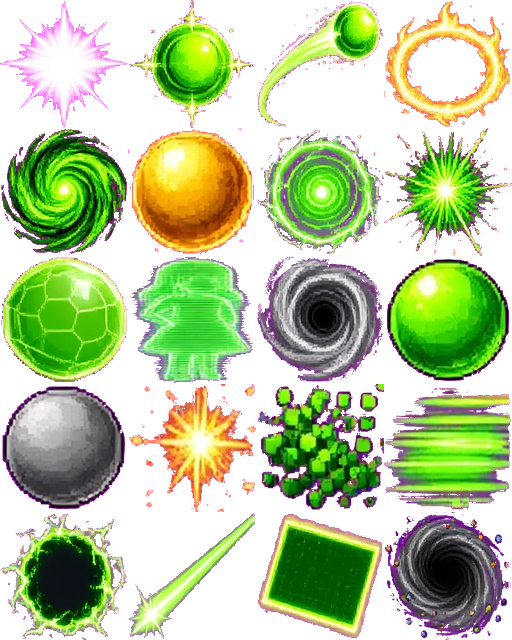
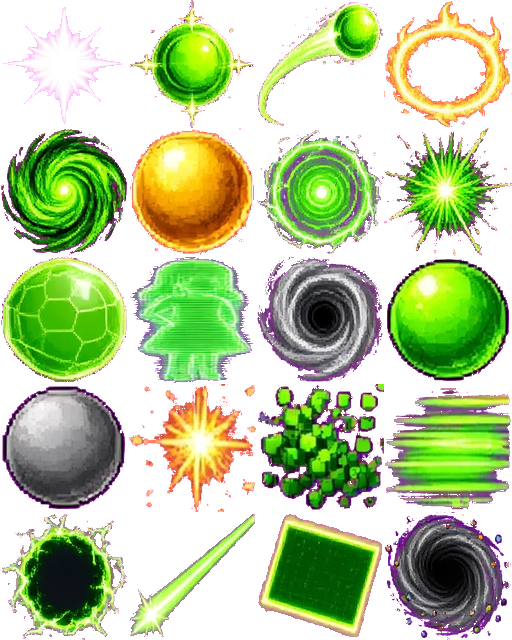
Jess: limpa magenta residual, retratos/face regenerados e Daltonic Mode completo (gas rosa, tela cinza/turva, lentidao constante e controles invertidos)
- assets/sprites/jess.png + assets/abilities/jess.png: zero pixels magenta residual (chroma-key) — validate_sprites confirma 0 magenta na Jess
- assets/ui/roster-portraits.png regenerado via tools/build_roster_portraits.py (celula da Jess limpa, sem fragmento a direita) + novos assets/ui/face-jess.png e portrait-jess.png (HUD/cutin estavam 404)
- Ultimate Daltonic Mode (js/engine/fighter.js, game.js, css): alem do cinza, aplica slow constante (0.55x) no rival, gas rosa tipo neblina cobrindo a tela do jogador atingido (overlay + sparks #ff7ad9), tela turva (blur via classe .daltonic no canvas) e inverte botoes de movimento (esq/dir, cima/baixo) e de poder (a0<->a9 ... a4<->a5) via daltonicInput
- STATUS_LABEL.daltonic + desc da ult atualizada; cache-busters bumpados (v42-jessgas, v38-jessgas, spritefix-4x15c)
- tools/jess_daltonic_test.cjs: 17 checks do novo comportamento; jess_test 28/28, jess_intensive 18/18, combat_regressions PASS

Changed region(s): [[0.0, 0.0, 0.25, 0.1875]]

diff --git a/index.html b/index.html
@@ -22,9 +22,9 @@
     })().catch((error) => console.warn('Cache cleanup failed:', error));
   </script>
   <link rel="icon" type="image/png" href="assets/share/favicon.png" />
-  <link rel="stylesheet" href="css/style.css?v=v41-jessfix" />
-  <link rel="stylesheet" href="css/account.css?v=v41-jessfix" />
-  <link rel="stylesheet" href="css/mobile.css?v=v41-jessfix" />
+  <link rel="stylesheet" href="css/style.css?v=v42-jessgas" />
+  <link rel="stylesheet" href="css/account.css?v=v42-jessgas" />
+  <link rel="stylesheet" href="css/mobile.css?v=v42-jessgas" />
 </head>
 <body>
   <div id="loader" role="status" aria-live="polite">
@@ -75,13 +75,13 @@
 
     <section class="screen" id="scr-menu" data-screen="menu">
       <div class="menu-bg"></div>
-      <img class="menu-skin" id="skin-natal" alt="" src="assets/ui/skin-natal.png?v=v41-jessfix" />
-      <img class="menu-skin" id="skin-halloween" alt="" src="assets/ui/skin-halloween.png?v=v41-jessfix" />
-      <img class="menu-skin" id="skin-carnaval" alt="" src="assets/ui/skin-carnaval.png?v=v41-jessfix" />
-      <img class="menu-skin" id="skin-pascoa" alt="" src="assets/ui/skin-pascoa.png?v=v41-jessfix" />
-      <img class="menu-skin" id="skin-junina" alt="" src="assets/ui/skin-junina.png?v=v41-jessfix" />
-      <img class="menu-skin" id="skin-criancas" alt="" src="assets/ui/skin-criancas.png?v=v41-jessfix" />
-      <img class="menu-skin" id="skin-anonovo" alt="" src="assets/ui/skin-anonovo.png?v=v41-jessfix" />
+      <img class="menu-skin" id="skin-natal" alt="" src="assets/ui/skin-natal.png?v=v42-jessgas" />
+      <img class="menu-skin" id="skin-halloween" alt="" src="assets/ui/skin-halloween.png?v=v42-jessgas" />
+      <img class="menu-skin" id="skin-carnaval" alt="" src="assets/ui/skin-carnaval.png?v=v42-jessgas" />
+      <img class="menu-skin" id="skin-pascoa" alt="" src="assets/ui/skin-pascoa.png?v=v42-jessgas" />
+      <img class="menu-skin" id="skin-junina" alt="" src="assets/ui/skin-junina.png?v=v42-jessgas" />
+      <img class="menu-skin" id="skin-criancas" alt="" src="assets/ui/skin-criancas.png?v=v42-jessgas" />
+      <img class="menu-skin" id="skin-anonovo" alt="" src="assets/ui/skin-anonovo.png?v=v42-jessgas" />
       <div class="menu-fx" id="fx-natal"></div>
       <div class="menu-fx" id="fx-halloween"></div>
       <img class="logo small" src="assets/ui/logo.png" alt="DS Fighters" />
@@ -411,7 +411,7 @@
     </div>
   </div>
 
-  <script src="assets/sprites/layout.js?v=v41-jessfix"></script>
+  <script src="assets/sprites/layout.js?v=v42-jessgas"></script>
   <script>
     /* Blindagem contra layout.js velho em cache: os arquivos de dados
        (fighters-v7..v11) escrevem em SPRITE_LAYOUT.files / .perFighter,
@@ -435,76 +435,76 @@
       }
     })();
   </script>
-  <script src="assets/stages/sheets.js?v=v41-jessfix"></script>
-  <script src="assets/maps/anim.js?v=v41-jessfix"></script>
-  <script src="js/data/achievements.js?v=v41-jessfix"></script>
-  <script src="js/core/profile.js?v=v41-jessfix"></script>
-  <script src="js/config/firebase-config.js?v=v41-jessfix"></script>
-  <script src="js/core/cloud.js?v=v41-jessfix"></script>
-  <script src="js/config/supabase-config.js?v=v41-jessfix"></script>
+  <script src="assets/stages/sheets.js?v=v42-jessgas"></script>
+  <script src="assets/maps/anim.js?v=v42-jessgas"></script>
+  <script src="js/data/achievements.js?v=v42-jessgas"></script>
+  <script src="js/core/profile.js?v=v42-jessgas"></script>
+  <script src="js/config/firebase-config.js?v=v42-jessgas"></script>
+  <script src="js/core/cloud.js?v=v42-jessgas"></script>
+  <script src="js/config/supabase-config.js?v=v42-jessgas"></script>
   <script src="js/vendor/supabase-2.118.0.js"></script>
-  <script src="js/core/supabase-cloud.js?v=v41-jessfix"></script>
-  <script src="js/data/fighters.js?v=v41-jessfix"></script>
-  <script src="js/data/fighters-v10.js?v=v41-jessfix"></script>
-  <script src="js/data/fighters-v11.js?v=v41-jessfix"></script>
-  <script src="js/data/powers.js?v=v41-jessfix"></script>
-  <script src="js/data/powers-turbo.js?v=v41-jessfix"></script>
-  <script src="js/data/powers-v4.js?v=v41-jessfix"></script>
-  <script src="js/data/powers-v5.js?v=v41-jessfix"></script>
-  <script src="js/data/powers-v6.js?v=v41-jessfix"></script>
-  <script src="js/data/powers-balance-v6.js?v=v41-jessfix"></script>
-  <script src="js/data/powers-v7.js?v=v41-jessfix"></script>
-  <script src="js/data/powers-v8.js?v=v41-jessfix"></script>
-  <script src="js/data/powers-v9.js?v=v41-jessfix"></script>
-  <script src="js/data/powers-v10.js?v=v41-jessfix"></script>
-  <script src="js/data/powers-v11.js?v=v41-jessfix"></script>
-    <script src="js/data/fighters-v12.js?v=v41-jessfix"></script>
-    <script src="js/data/fighters-v13.js?v=v41-jessfix"></script>
-    <script src="js/data/fighters-v14.js?v=v41-jessfix"></script>
-    <script src="js/data/fighters-v15.js?v=v41-jessfix"></script>
-    <script src="js/data/fighters-v16.js?v=v41-jessfix"></script>
-    <script src="js/data/fighters-v17.js?v=v41-jessfix"></script>
-  <script src="js/data/fighters-v18.js?v=v41-jessfix"></script>
-  <script src="js/data/fighters-v19.js?v=v41-jessfix"></script>
-  <script src="js/data/fighters-v20.js?v=v41-jessfix"></script>
-  <script src="js/data/powers-balance-v7.js?v=v41-jessfix"></script>
-  <script src="js/data/powers-balance-v8.js?v=v41-jessfix"></script>
-  <script src="js/data/powers-balance-v9.js?v=v41-jessfix"></script>
-  <script src="js/data/powers-balance-v10.js?v=v41-jessfix"></script>
-  <script src="js/data/powers-balance-v11.js?v=v41-jessfix"></script>
-  <script src="js/data/powers-balance-v12.js?v=v41-jessfix"></script>
-  <script src="js/data/powers-balance-v13.js?v=v41-jessfix"></script>
-  <script src="js/data/fighters-pack.js?v=v41-jessfix"></script>
-  <script src="js/data/fighters-henrico.js?v=v41-jessfix"></script>
-  <script src="js/data/fighters-jess.js?v=v41-jessfix"></script>
-  <script src="js/data/pets.js?v=v41-jessfix"></script>
-  <script src="js/data/stages.js?v=v41-jessfix"></script>
-  <script src="js/data/stages-v21.js?v=v41-jessfix"></script>
-  <script src="js/data/events.js?v=v41-jessfix"></script>
-  <script src="js/data/stages-events.js?v=v41-jessfix"></script>
-  <script src="js/data/stages-brasil.js?v=v41-jessfix"></script>
-  <script src="js/engine/sprites.js?v=v41-jessfix"></script>
-  <script src="js/engine/fx.js?v=v41-jessfix"></script>
-  <script src="js/data/voice-book.js?v=v41-jessfix"></script>
-  <script src="js/engine/audio.js?v=v41-jessfix"></script>
-  <script src="js/engine/input.js?v=v41-jessfix"></script>
-  <script src="js/ui/viewport.js?v=v41-jessfix"></script>
-  <script src="js/engine/projectile.js?v=v41-jessfix"></script>
-  <script src="js/engine/fighter.js?v=v41-jessfix"></script>
-  <script src="js/engine/vfx.js?v=v41-jessfix"></script>
-  <script src="js/engine/weather.js?v=v41-jessfix"></script>
-  <script src="js/engine/mechanics.js?v=v41-jessfix"></script>
-  <script src="js/engine/stage.js?v=v41-jessfix"></script>
-  <script src="js/engine/ai.js?v=v41-jessfix"></script>
-  <script src="js/engine/game.js?v=v41-jessfix"></script>
+  <script src="js/core/supabase-cloud.js?v=v42-jessgas"></script>
+  <script src="js/data/fighters.js?v=v42-jessgas"></script>
+  <script src="js/data/fighters-v10.js?v=v42-jessgas"></script>
+  <script src="js/data/fighters-v11.js?v=v42-jessgas"></script>
+  <script src="js/data/powers.js?v=v42-jessgas"></script>
+  <script src="js/data/powers-turbo.js?v=v42-jessgas"></script>
+  <script src="js/data/powers-v4.js?v=v42-jessgas"></script>
+  <script src="js/data/powers-v5.js?v=v42-jessgas"></script>
+  <script src="js/data/powers-v6.js?v=v42-jessgas"></script>
+  <script src="js/data/powers-balance-v6.js?v=v42-jessgas"></script>
+  <script src="js/data/powers-v7.js?v=v42-jessgas"></script>
+  <script src="js/data/powers-v8.js?v=v42-jessgas"></script>
+  <script src="js/data/powers-v9.js?v=v42-jessgas"></script>
+  <script src="js/data/powers-v10.js?v=v42-jessgas"></script>
+  <script src="js/data/powers-v11.js?v=v42-jessgas"></script>
+    <script src="js/data/fighters-v12.js?v=v42-jessgas"></script>
+    <script src="js/data/fighters-v13.js?v=v42-jessgas"></script>
+    <script src="js/data/fighters-v14.js?v=v42-jessgas"></script>
+    <script src="js/data/fighters-v15.js?v=v42-jessgas"></script>
+    <script src="js/data/fighters-v16.js?v=v42-jessgas"></script>
+    <script src="js/data/fighters-v17.js?v=v42-jessgas"></script>
+  <script src="js/data/fighters-v18.js?v=v42-jessgas"></script>
+  <script src="js/data/fighters-v19.js?v=v42-jessgas"></script>
+  <script src="js/data/fighters-v20.js?v=v42-jessgas"></script>
+  <script src="js/data/powers-balance-v7.js?v=v42-jessgas"></script>
+  <script src="js/data/powers-balance-v8.js?v=v42-jessgas"></script>
+  <script src="js/data/powers-balance-v9.js?v=v42-jessgas"></script>
+  <script src="js/data/powers-balance-v10.js?v=v42-jessgas"></script>
+  <script src="js/data/powers-balance-v11.js?v=v42-jessgas"></script>
+  <script src="js/data/powers-balance-v12.js?v=v42-jessgas"></script>
+  <script src="js/data/powers-balance-v13.js?v=v42-jessgas"></script>
+  <script src="js/data/fighters-pack.js?v=v42-jessgas"></script>
+  <script src="js/data/fighters-henrico.js?v=v42-jessgas"></script>
+  <script src="js/data/fighters-jess.js?v=v42-jessgas"></script>
+  <script src="js/data/pets.js?v=v42-jessgas"></script>
+  <script src="js/data/stages.js?v=v42-jessgas"></script>
+  <script src="js/data/stages-v21.js?v=v42-jessgas"></script>
+  <script src="js/data/events.js?v=v42-jessgas"></script>
+  <script src="js/data/stages-events.js?v=v42-jessgas"></script>
+  <script src="js/data/stages-brasil.js?v=v42-jessgas"></script>
+  <script src="js/engine/sprites.js?v=v42-jessgas"></script>
+  <script src="js/engine/fx.js?v=v42-jessgas"></script>
+  <script src="js/data/voice-book.js?v=v42-jessgas"></script>
+  <script src="js/engine/audio.js?v=v42-jessgas"></script>
+  <script src="js/engine/input.js?v=v42-jessgas"></script>
+  <script src="js/ui/viewport.js?v=v42-jessgas"></script>
+  <script src="js/engine/projectile.js?v=v42-jessgas"></script>
+  <script src="js/engine/fighter.js?v=v42-jessgas"></script>
+  <script src="js/engine/vfx.js?v=v42-jessgas"></script>
+  <script src="js/engine/weather.js?v=v42-jessgas"></script>
+  <script src="js/engine/mechanics.js?v=v42-jessgas"></script>
+  <script src="js/engine/stage.js?v=v42-jessgas"></script>
+  <script src="js/engine/ai.js?v=v42-jessgas"></script>
+  <script src="js/engine/game.js?v=v42-jessgas"></script>
   <script src="js/vendor/peerjs.min.js"></script>
-  <script src="js/net/room-core.js?v=v41-jessfix"></script>
-  <script src="js/net/online.js?v=v41-jessfix"></script>
-  <script src="js/ui/hud.js?v=v41-jessfix"></script>
-  <script src="js/data/roster-portraits.js?v=v41-jessfix"></script>
-  <script src="js/ui/ui.js?v=v41-jessfix"></script>
-  <script src="js/ui/account.js?v=v41-jessfix"></script>
-  <script src="js/main.js?v=v41-jessfix"></script>
-  <script src="js/net/tournament.js?v=v41-jessfix"></script>
+  <script src="js/net/room-core.js?v=v42-jessgas"></script>
+  <script src="js/net/online.js?v=v42-jessgas"></script>
+  <script src="js/ui/hud.js?v=v42-jessgas"></script>
+  <script src="js/data/roster-portraits.js?v=v42-jessgas"></script>
+  <script src="js/ui/ui.js?v=v42-jessgas"></script>
+  <script src="js/ui/account.js?v=v42-jessgas"></script>
+  <script src="js/main.js?v=v42-jessgas"></script>
+  <script src="js/net/tournament.js?v=v42-jessgas"></script>
 </body>
 </html>

diff --git a/js/engine/game.js b/js/engine/game.js
@@ -770,8 +770,9 @@ class Game {
     if (this.matchOver) return;
     this.matchOver = true;
     this.running = false;
-    this.canvas.classList.remove('vertigo');
+    this.canvas.classList.remove('vertigo', 'daltonic');
     this._vertigoOn = false;
+    this._daltonicOn = false;
     this.weather.stop();
     this.mech.stop();
     AudioSys.setTension(false);
@@ -823,9 +824,9 @@ class Game {
   }
   stop() {
     this.running = false;
-    this.canvas.classList.remove('blinded', 'vertigo');
+    this.canvas.classList.remove('blinded', 'vertigo', 'daltonic');
     document.body.classList.remove('shocked');
-    this._blurOn = false; this._vertigoOn = false; this._shockOn = false;
+    this._blurOn = false; this._vertigoOn = false; this._shockOn = false; this._daltonicOn = false;
     if (this.weather) this.weather.stop();
     if (this.mech) this.mech.stop();
     AudioSys.stopLoops();
@@ -1044,6 +1045,9 @@ class Game {
     // A vertigem altera só a viewport do jogador local atingido; HUD e controles ficam normais.
     const vertigo = !this.reduced && lt.length === 1 && lt.some((ti) => { const f = this.activeOf(ti); return f && f.has('vertigo'); });
     if (vertigo !== this._vertigoOn) { this._vertigoOn = vertigo; this.canvas.classList.toggle('vertigo', vertigo); }
+    /* DALTONIC (ult da Jess): a tela do jogador local atingido fica cinza e turva. */
+    const daltonic = lt.length === 1 && lt.some((ti) => { const f = this.activeOf(ti); return f && f.has('daltonic'); });
+    if (daltonic !== this._daltonicOn) { this._daltonicOn = daltonic; this.canvas.classList.toggle('daltonic', daltonic); }
     const shocked = lt.length === 1 && lt.some((ti) => { const f = this.activeOf(ti); return f && f.has('shock'); });
     if (shocked !== this._shockOn) { this._shockOn = shocked; document.body.classList.toggle('shocked', shocked); }
     if (this.spriteWarnings && this.spriteWarnings.length) {
@@ -1056,6 +1060,34 @@ class Game {
       ctx.fillText(this.spriteWarnings.join(' | '), W / 2, 16);
       ctx.restore();
     }
+  }
+  /* Gás rosa tipo neblina do Daltonic Mode: blobs radiais em cache varrendo a tela. */
+  drawDaltonicGas(ctx, W, H) {
+    if (!this._gasBlob) {
+      const c = document.createElement('canvas');
+      c.width = 260; c.height = 160;
+      const x = c.getContext('2d');
+      const g = x.createRadialGradient(130, 80, 10, 130, 80, 128);
+      g.addColorStop(0, 'rgba(255,122,217,0.30)');
+      g.addColorStop(0.6, 'rgba(240,90,200,0.14)');
+      g.addColorStop(1, 'rgba(230,60,190,0)');
+      x.fillStyle = g;
+      x.fillRect(0, 0, 260, 160);
+      this._gasBlob = c;
+    }
+    const t = this.time;
+    const n = this.reduced ? 5 : 9;
+    for (let k = 0; k < n; k++) {
+      const ph = k * 2.39;
+      const gx = (Math.sin(t * 0.011 + ph) * 0.5 + 0.5) * (W + 300) - 150 + (k % 3) * 120;
+      const gy = (Math.cos(t * 0.008 + ph * 1.7) * 0.5 + 0.5) * (H + 200) - 100 - (k % 4) * 40;
+      const sc = 2.4 + (k % 3) * 0.9;
+      ctx.globalAlpha = this.reduced ? 0.5 : 0.42 + 0.12 * Math.sin(t * 0.05 + ph);
+      ctx.drawImage(this._gasBlob, gx - 130 * sc / 2, gy - 80 * sc / 2, 260 * sc / 2, 160 * sc / 2);
+    }
+    ctx.globalAlpha = 1;
+    ctx.fillStyle = 'rgba(255,110,210,0.07)';
+    ctx.fillRect(0, 0, W, H);
   }
   renderScene(ctx) {
     const [a, b] = this.activePair();
@@ -1159,6 +1191,9 @@ class Game {
       ctx.fillRect(0, 0, W, H);
     }
     this.weather.drawOverlay(ctx, W, H);
+    /* GÁS ROSA do Daltonic Mode: neblina rosa cobre a tela do jogador atingido. */
+    const gasF = this.localTeams().map((ti) => this.activeOf(ti)).find((f) => f && f.has('daltonic'));
+    if (gasF) this.drawDaltonicGas(ctx, W, H);
     if (this.bsod > 0) {
       ctx.fillStyle = `rgba(20,60,200,${Math.min(0.55, this.bsod / 60)})`;
       ctx.fillRect(0, 0, W, H);

diff --git a/js/engine/fighter.js b/js/engine/fighter.js
@@ -34,6 +34,7 @@ const STATUS_LABEL = {
   chill: { t: 'CONGELANDO', c: '#a8e6ff' }, bleed: { t: 'SANGRANDO', c: '#ff2d55' }, vuln: { t: 'VULNERÁVEL', c: '#ff9f1c' }, overclock: { t: 'OVERCLOCK', c: '#00f0ff' }, dizzy: { t: 'TONTO', c: '#ffe14d' }, stolen: { t: 'KIT ROUBADO', c: '#c77dff' }, regen: { t: 'REGEN', c: '#7dff9a' },
   resonance: { t: 'RESSONÂNCIA', c: '#88eaff' }, veil: { t: 'VÉU', c: '#f49bdf' },
   vertigo: { t: 'VERTIGEM', c: '#ff9a36' }, paralyze: { t: 'PARALISADO', c: '#bd80ff' }, nanomachines: { t: 'NANOMÁQUINAS', c: '#ffad4d' },
+  daltonic: { t: 'DALTONIC', c: '#c9c9c9' },
 };
 
 class Fighter {
@@ -811,10 +812,12 @@ class Fighter {
         break;
       }
       case 'daltonic': {
-        /* DALTONIC MODE: 6s — o rival ve tudo em cinza, Jess rouba 25% do dano em vida */
+        /* DALTONIC MODE: 6s — o rival ve tudo em cinza e turvo (gás rosa), fica
+           lento e com os controles invertidos; Jess rouba 25% do dano em vida */
         const rival = game.enemyOf(this);
         if (rival) {
           rival.addStatus('daltonic', 360, this);
+          rival.addStatus('slow', 360, this);
           this.addStatus('lifesteal', 360);
           game.floatText(rival.x, rival.y - 250, 'DALTONIC MODE', '#F0C24B');
           game.shake(6);
@@ -1348,6 +1351,11 @@ class Fighter {
       if (this.has('bleed') && this.frame % 16 === 0) { this.chip(0.7, this.statusSource.bleed); if (this.frame % 32 === 0) this.game.spark(this.x, this.y - 110, '#ff2d55'); }
       if (this.has('shock') && this.frame % 9 === 0) this.game.spark(this.x + ((this.game.rnd ? this.game.rnd() : Math.random()) - 0.5) * 50, this.y - 60 - (this.game.rnd ? this.game.rnd() : Math.random()) * 100, '#7df9ff');
       if (this.has('chill') && this.frame % 12 === 0) this.game.spark(this.x + ((this.game.rnd ? this.game.rnd() : Math.random()) - 0.5) * 50, this.y - 40 - (this.game.rnd ? this.game.rnd() : Math.random()) * 120, '#d8f6ff');
+      /* DALTONIC (ult da Jess): lentidao constante + gas rosa subindo do vitima */
+      if (this.has('daltonic')) {
+        this.addStatus('slow', 30);
+        if (this.frame % 5 === 0) this.game.spark(this.x + ((this.game.rnd ? this.game.rnd() : Math.random()) - 0.5) * 170, this.y - 20 - (this.game.rnd ? this.game.rnd() : Math.random()) * 170, '#ff7ad9', { count: 2, speed: 1.1 });
+      }
       if (this.afterimage > 0) this.afterimage--;
       if (this.phaseDash > 0) this.phaseDash--;
       if (this.overclockHot && this.overclockUntil && this.now >= this.overclockUntil && !this.has('aura')) {
@@ -1369,6 +1377,7 @@ class Fighter {
     }
     if (this.has('shock')) input = this.shockInput(input);
     if (this.has('glitch')) input = this.glitchInput(input);
+    if (this.has('daltonic')) input = this.daltonicInput(input);
     this.press(input);
     this.queue = this.queue.filter((q) => {
       q.at--;
@@ -1813,6 +1822,14 @@ class Fighter {
       ['left', 'right', 'down', 'up', 'punch', 'kick'].forEach((key) => { i[key] = false; });
       for (let k = 0; k < 10; k++) i['a' + k] = false;
     }
+    return i;
+  }
+  /** Daltônico (ult da Jess): direções invertidas e botões de poder espelhados. */
+  daltonicInput(input) {
+    const i = Object.assign({}, input);
+    const l = i.left; i.left = i.right; i.right = l;
+    const u = i.up; i.up = i.down; i.down = u;
+    for (let k = 0; k < 5; k++) { const t = i['a' + k]; i['a' + k] = i['a' + (9 - k)]; i['a' + (9 - k)] = t; }
     return i;
   }
   /** Eletrizado: os controles "mexem sozinhos" (direções invertidas em pulsos e apertos fantasmas). */

diff --git a/css/style.css b/css/style.css
@@ -443,6 +443,9 @@ body.reduced #cutin.on { animation: bannerFade .9s forwards; }
 body.reduced #game.fogged { filter: blur(1px) saturate(.9); transition: none; }
 #game.vertigo { transform: rotate(180deg); transform-origin: center center; }
 body.reduced #game.vertigo { transform: none; transition: none; }
+#game.daltonic { filter: grayscale(1) blur(2.5px) brightness(.94); }
+body.reduced #game.daltonic { filter: grayscale(1) blur(1px); transition: none; }
+#stage-wrap:has(#game.daltonic)::after { content: ''; position: absolute; inset: 0; background: radial-gradient(ellipse at center, rgba(255,122,217,.14), rgba(214,48,180,.28)); pointer-events: none; }
 body.reduced #game.blinded { filter: blur(4px) brightness(.8); transition: none; }
 #stage-wrap:has(#game.blinded)::after { content: 'CEGO!'; position: absolute; top: 46%; left: 0; right: 0; text-align: center; font-size: 22px; color: #e6e6e6; text-shadow: 3px 3px 0 #000; pointer-events: none; animation: blink-txt .5s steps(2) infinite; }
 @keyframes blink-txt { 50% { opacity: .35; } }

diff --git a/js/engine/sprites.js b/js/engine/sprites.js
@@ -41,10 +41,10 @@ const SpriteGen = {
     const src = (SPRITE_LAYOUT.files || {})[id] || 'assets/sprites/' + id + '.png';
     // v=... serve pra invalidar cache: SEMPRE bump quando o PNG mudar.
     // v18-balance: rebalanceamento geral + cromo buff
-    return src + '?v=v41-jessfix';
+    return src + '?v=v42-jessgas';
   },
   faceUrl(id) {
-    return `assets/ui/face-${id}.png?v=spritefix-4x15b`;
+    return `assets/ui/face-${id}.png?v=spritefix-4x15c`;
   },
   load() {
     const files = SPRITE_LAYOUT.files || {};

diff --git a/js/data/fighters-jess.js b/js/data/fighters-jess.js
@@ -71,7 +71,7 @@
         Object.assign({
           id: 'daltonic', name: 'Daltonic Mode', slot: 'ultimate', row: 4,
           kind: 'daltonic', dmg: 0, cd: 900, sfx: 'ultimate',
-          desc: 'Por 6s o oponente vê tudo em cinza e Jess converte 25% do dano em vida.',
+          desc: 'Por 6s o oponente vê tudo em cinza e turvo (gás rosa), fica lento constante e com os botões de movimento e de poder invertidos; Jess converte 25% do dano em vida.',
         }, visual(4, '#F0C24B')),
       ],
     },

diff --git a/js/engine/stage.js b/js/engine/stage.js
@@ -403,7 +403,7 @@ class StageRenderer {
     this.crowd = null;
     if (!this.def.torcida) return;
     this.crowdSheet = new Image();
-    this.crowdSheet.src = 'assets/fauna/torcida.png?v=v41-jessfix';
+    this.crowdSheet.src = 'assets/fauna/torcida.png?v=v42-jessgas';
     this.crowdHype = 0;
     this.crowd = [
       { row: 0, y: this.H * 0.30, scale: 0.55, speed: 0.9 },

diff --git a/js/engine/fx.js b/js/engine/fx.js
@@ -38,7 +38,7 @@ const ART_SHEETS = {
 const Art = {
   images: {},
   url(src) {
-    return src + '?v=v37-firefly';
+    return src + '?v=v38-jessgas';
   },
   load() {
     Object.entries(ART_SHEETS).forEach(([key, s]) => {

diff --git a/js/data/roster-portraits.js b/js/data/roster-portraits.js
@@ -4,7 +4,7 @@ const ROSTER_PORTRAITS = {
   "cell": 96,
   "cols": 7,
   "file": "assets/ui/roster-portraits.png",
-  "version": "v36-portraits1",
+  "version": "v42-jessgas",
   "order": [
     "du",
     "iales",

diff --git a/tools/build_roster_portraits.py b/tools/build_roster_portraits.py
@@ -119,7 +119,7 @@ def main():
         'cell': CELL,
         'cols': COLS,
         'file': 'assets/ui/roster-portraits.png',
-        'version': 'v36-portraits1',
+        'version': 'v42-jessgas',
         'order': order,
         'crops': crops,
     }
